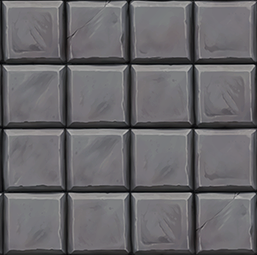
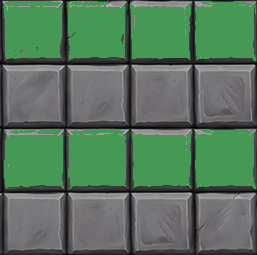
random stuff

diff --git a/TileMapGenerator/TileMap.cs b/TileMapGenerator/TileMap.cs
@@ -1,4 +1,6 @@
-using System;
+using Microsoft.Xna.Framework;
+using Microsoft.Xna.Framework.Content;
+using System;
 using System.Collections.Generic;
 using System.Linq;
 using System.Text;
@@ -6,30 +8,32 @@ using System.Threading.Tasks;
 
 namespace ZombieGame
 {
-    internal class TileMap 
+     static class TileMap 
     {
-
-
-
-        public TileMap()
+        static Tile[,] tiles = new Tile[10,10];
+        static Random rnd = new Random();
+        static public void tileGenerator(ContentManager content)
         {
-
-            
-
-
+            for (int i = 0; i < 10; i++)
+            {
+                for (int j = 0; j < 10; j++)
+                {
+                    tiles[i,j] = new Tile(rnd.Next(1, 4), new Vector2(j * 200, i * 200) , content);
+                }
+            }
         }
-
-
-
-
-        public void Draw()
+        static public void Draw()
         {
-            
+            for (int i = 0; i < 10; i++)
+            {
+                for (int j = 0; j < 10; j++)
+                {
+                    if (tiles[i,j] != null)
+                    {
+                    Globals.spriteBatch.Draw(tiles[i, j].tileTexture, tiles[i, j].tilePos, Color.White);
+                    }
+                }
+            }
         }
-
-
-
-
-
     }
 }

diff --git a/TileMapGenerator/Game1.cs b/TileMapGenerator/Game1.cs
@@ -1,6 +1,8 @@
 using Microsoft.Xna.Framework;
+using Microsoft.Xna.Framework.Content;
 using Microsoft.Xna.Framework.Graphics;
 using Microsoft.Xna.Framework.Input;
+using System.Diagnostics;
 
 namespace ZombieGame
 {
@@ -31,6 +33,7 @@ namespace ZombieGame
         {
             Globals.spriteBatch = new SpriteBatch(GraphicsDevice);
             spriteFont = Content.Load<SpriteFont>("spriteFont");
+            TileMap.tileGenerator(Content);
 
         }
 
@@ -48,8 +51,9 @@ namespace ZombieGame
         {
             GraphicsDevice.Clear(Color.Black);
             Globals.spriteBatch.Begin();
-            player.Draw();
+            TileMap.Draw();
             Globals.spriteBatch.DrawString(spriteFont, $"the rotation of object {Mouse.GetState().Position}", new Vector2(50, 50), Color.White);
+            player.Draw();
             Globals.spriteBatch.End();
 
             base.Draw(gameTime);

diff --git a/TileMapGenerator/Tile.cs b/TileMapGenerator/Tile.cs
@@ -1,7 +1,9 @@
 using Microsoft.Xna.Framework;
+using Microsoft.Xna.Framework.Content;
 using Microsoft.Xna.Framework.Graphics;
 using System;
 using System.Collections.Generic;
+using System.Diagnostics;
 using System.Linq;
 using System.Text;
 using System.Threading.Tasks;
@@ -10,18 +12,12 @@ namespace ZombieGame
 {
     internal class Tile
     {
-        private Texture2D tileTexture;
-        private Vector2 tilePos; 
-        
-        public Tile(int tileFilePath, Vector2 tilePos )
+        public Texture2D tileTexture;
+        public Vector2 tilePos; 
+        public Tile(int tileIndex, Vector2 tilePos , ContentManager content )
         {
-            //tileTexture = Globals.content.Load<Texture2D>(tileFilePath);
+            tileTexture = content.Load<Texture2D>($"Tiles/tile{tileIndex}");
             this.tilePos = tilePos;
         }
-
-
-
-
-
     }
 }

diff --git a/TileMapGenerator/FileManager.cs b/TileMapGenerator/FileManager.cs
@@ -8,13 +8,10 @@ namespace ZombieGame
 {
     public class FileManager
     {
-        private List<string> tiles = new List<string>(4);
+        private string[] tiles = {"Tiles/tile1" , "Tiles/tile2" , "Tiles/tile3" , "Tiles/tile4" };
         public FileManager() 
         {
-            for(int i = 0; i < tiles.Count; i++) 
-            {
-                tiles.Add($"Tiles/tile{i}");
-            }
+           
         }
     }
 }

diff --git a/TileMapGenerator/InputManager.cs b/TileMapGenerator/InputManager.cs
@@ -15,14 +15,11 @@ namespace ZombieGame
         public static Vector2 move;
         public static void Update()
         {
-
             var state = Keyboard.GetState();
-
             if(state.IsKeyDown(Keys.A))  move.X--; 
             if(state.IsKeyDown(Keys.D))  move.X++; 
             if(state.IsKeyDown(Keys.W))  move.Y--; 
             if(state.IsKeyDown(Keys.S))  move.Y++; 
- 
         }
     }
 }

diff --git a/TileMapGenerator/Globals.cs b/TileMapGenerator/Globals.cs
@@ -14,7 +14,8 @@ namespace ZombieGame
         public static float time { get; set; } 
         public static SpriteBatch spriteBatch { get; set; }
 
-        public static ContentManager content { get; set; }
+        public static ContentManager content { get; set; } 
+
 
         public static void Update(GameTime gameTime)
         {

diff --git a/TileMapGenerator/Player.cs b/TileMapGenerator/Player.cs
@@ -10,7 +10,7 @@ using System.Threading.Tasks;
 
 namespace ZombieGame
 {
-    internal class Player
+    internal class Player 
     {
         private float speed = 300;
 
